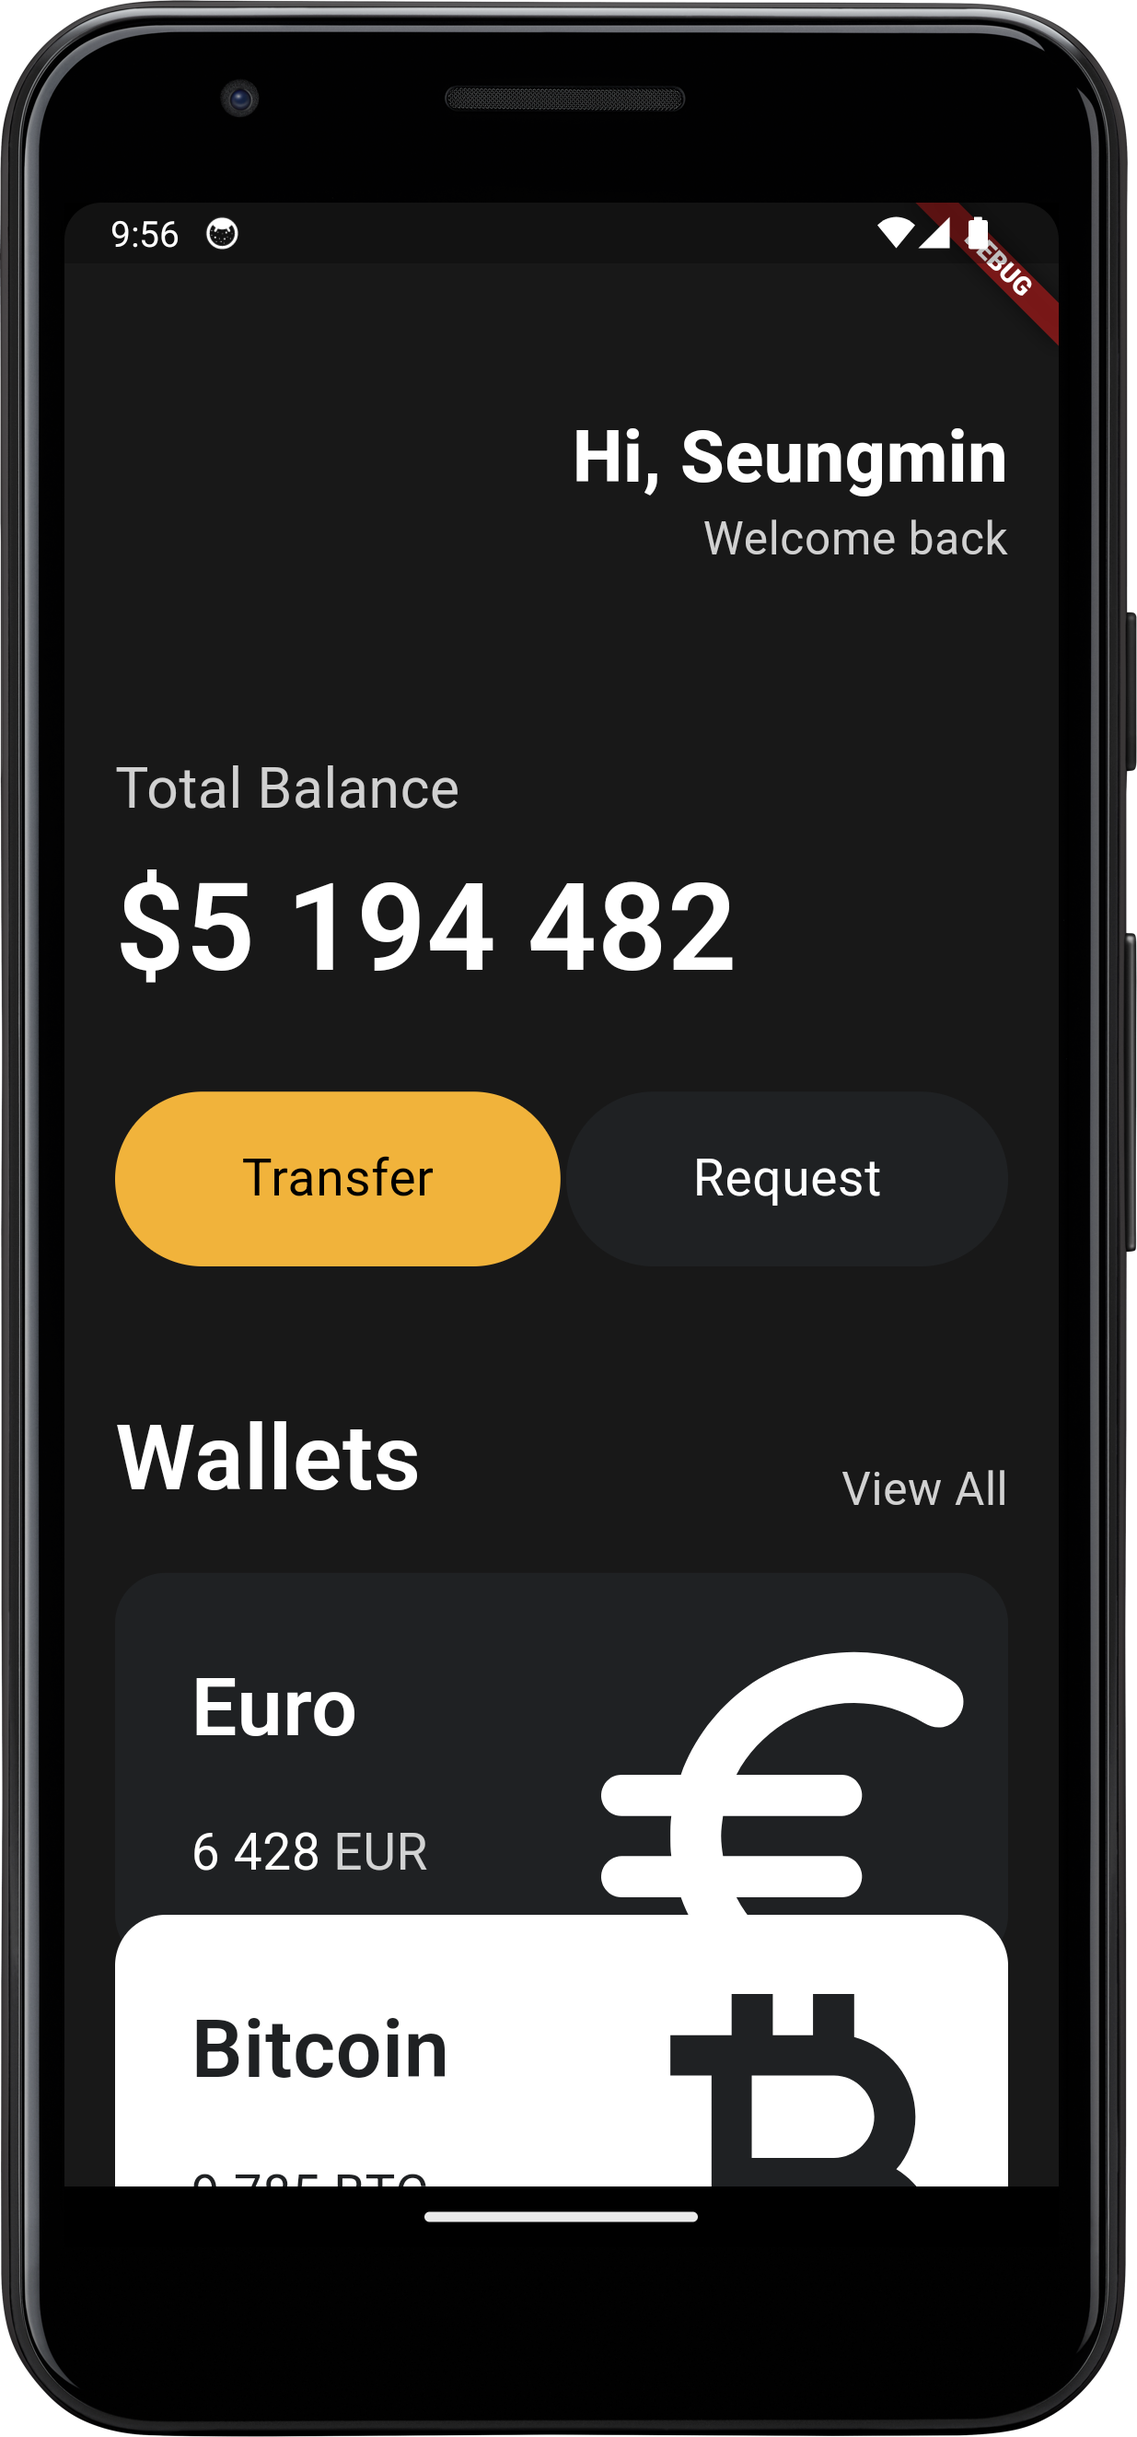
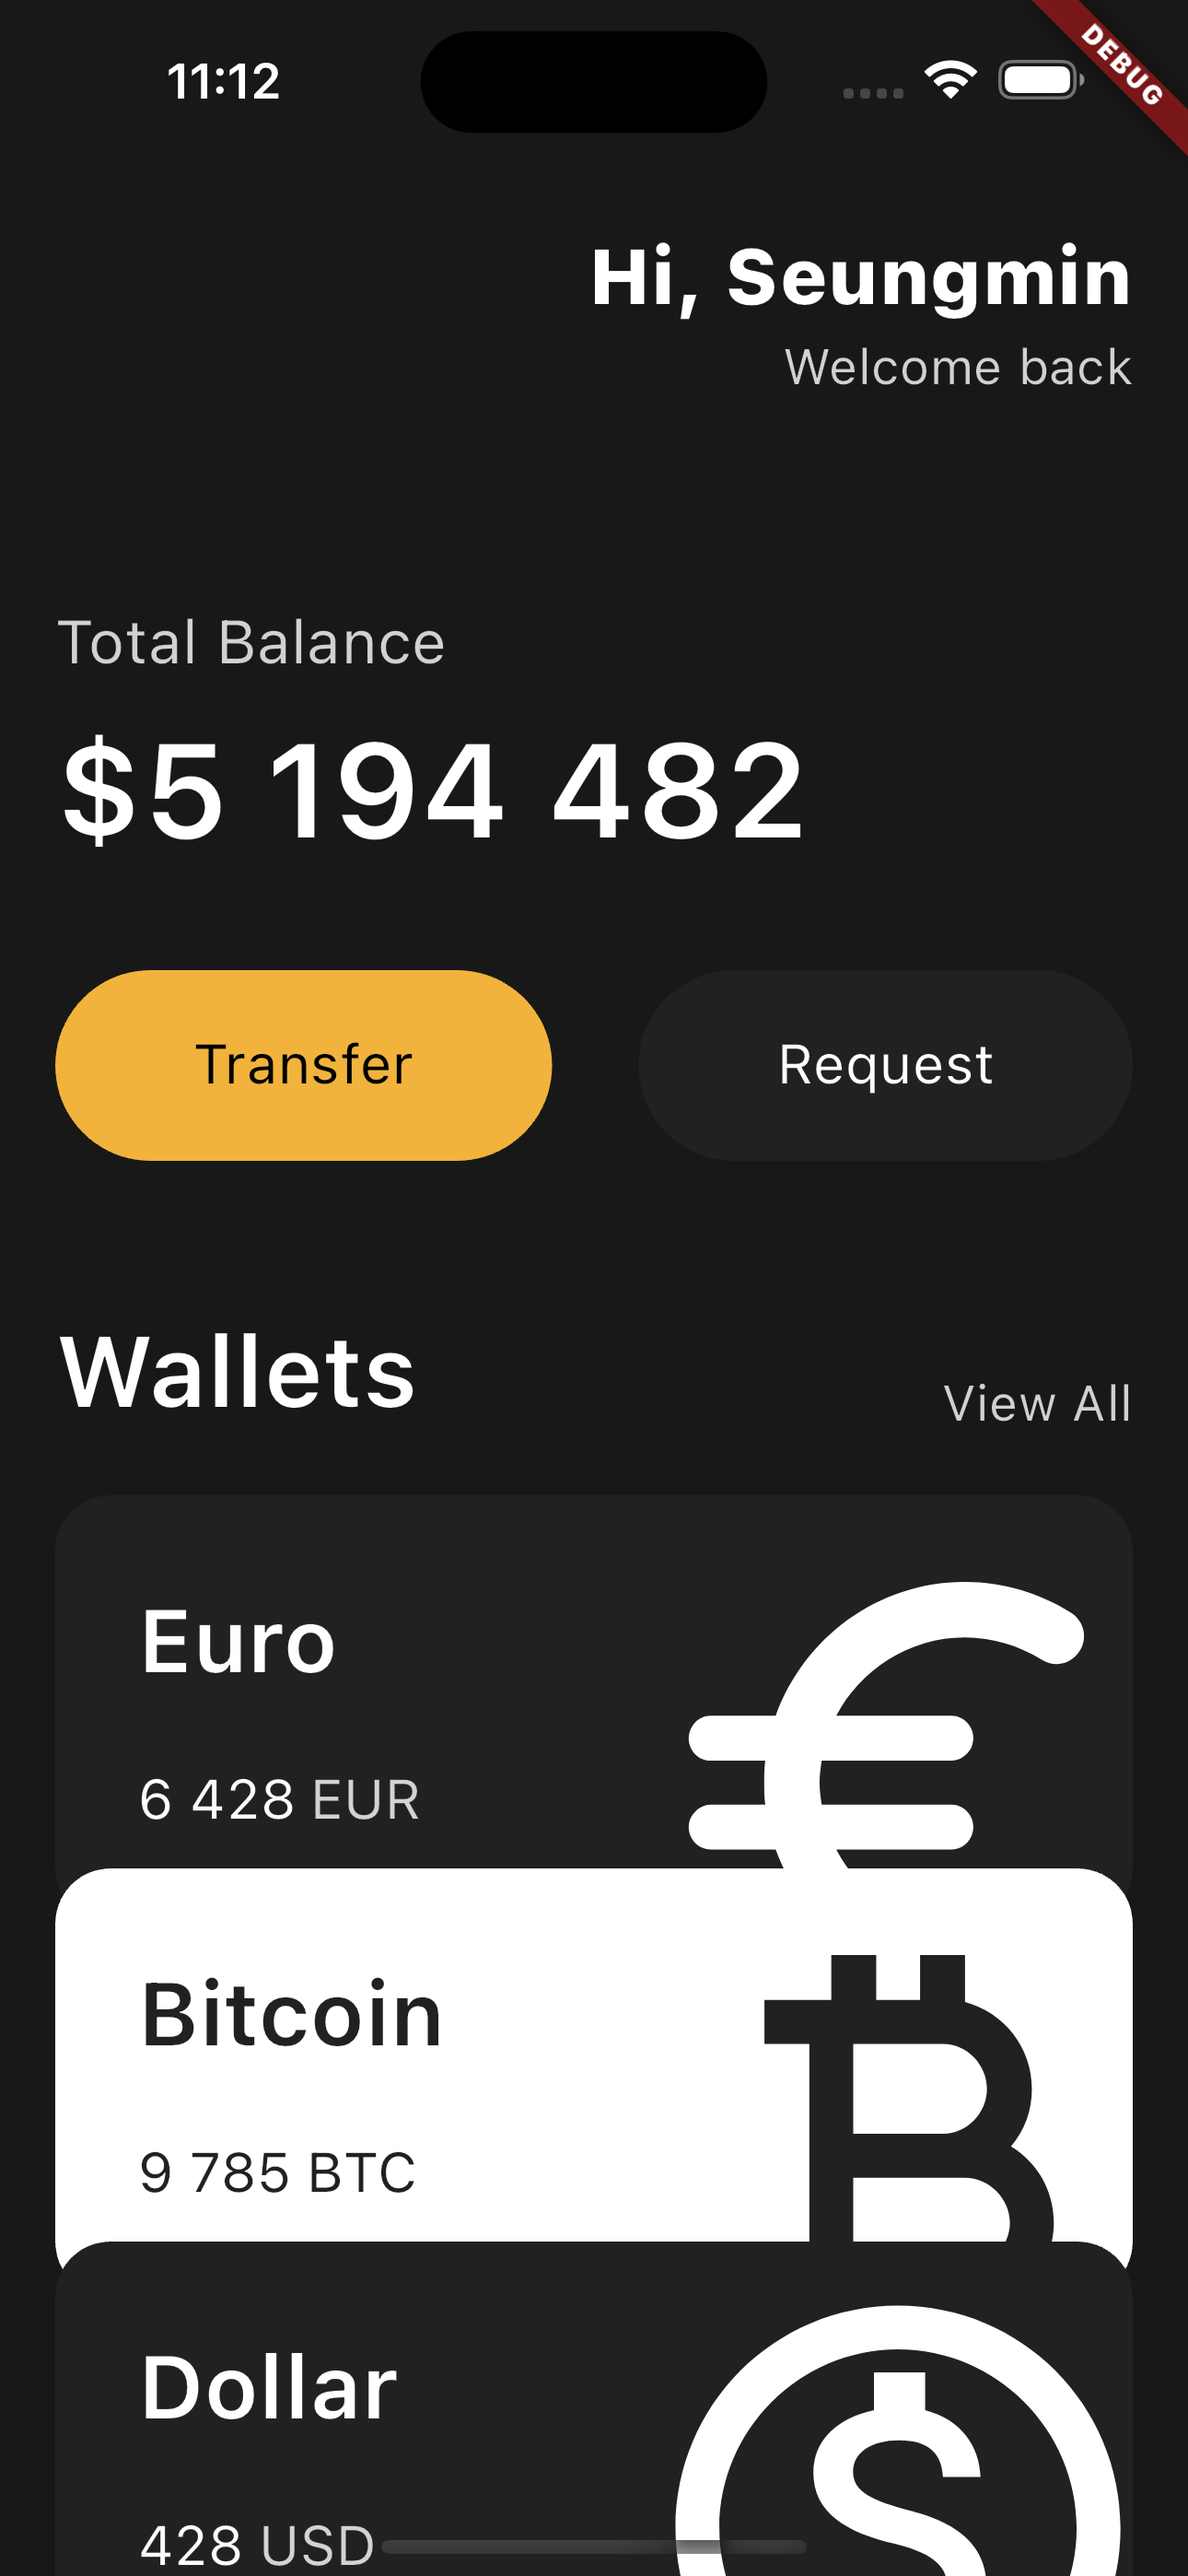
update

diff --git a/README.md b/README.md
@@ -3,7 +3,7 @@
 A new Flutter project.
 
 ## Wallet UI
-### 📱 Simulator Screenshot - Pixel 3a
+### 📱 Simulator Screenshot - iPhone 15 Pro Max
 <img src="lib/img/Screenshot_20240120_185655.png" width="300"/>
 
 ## Getting Started
